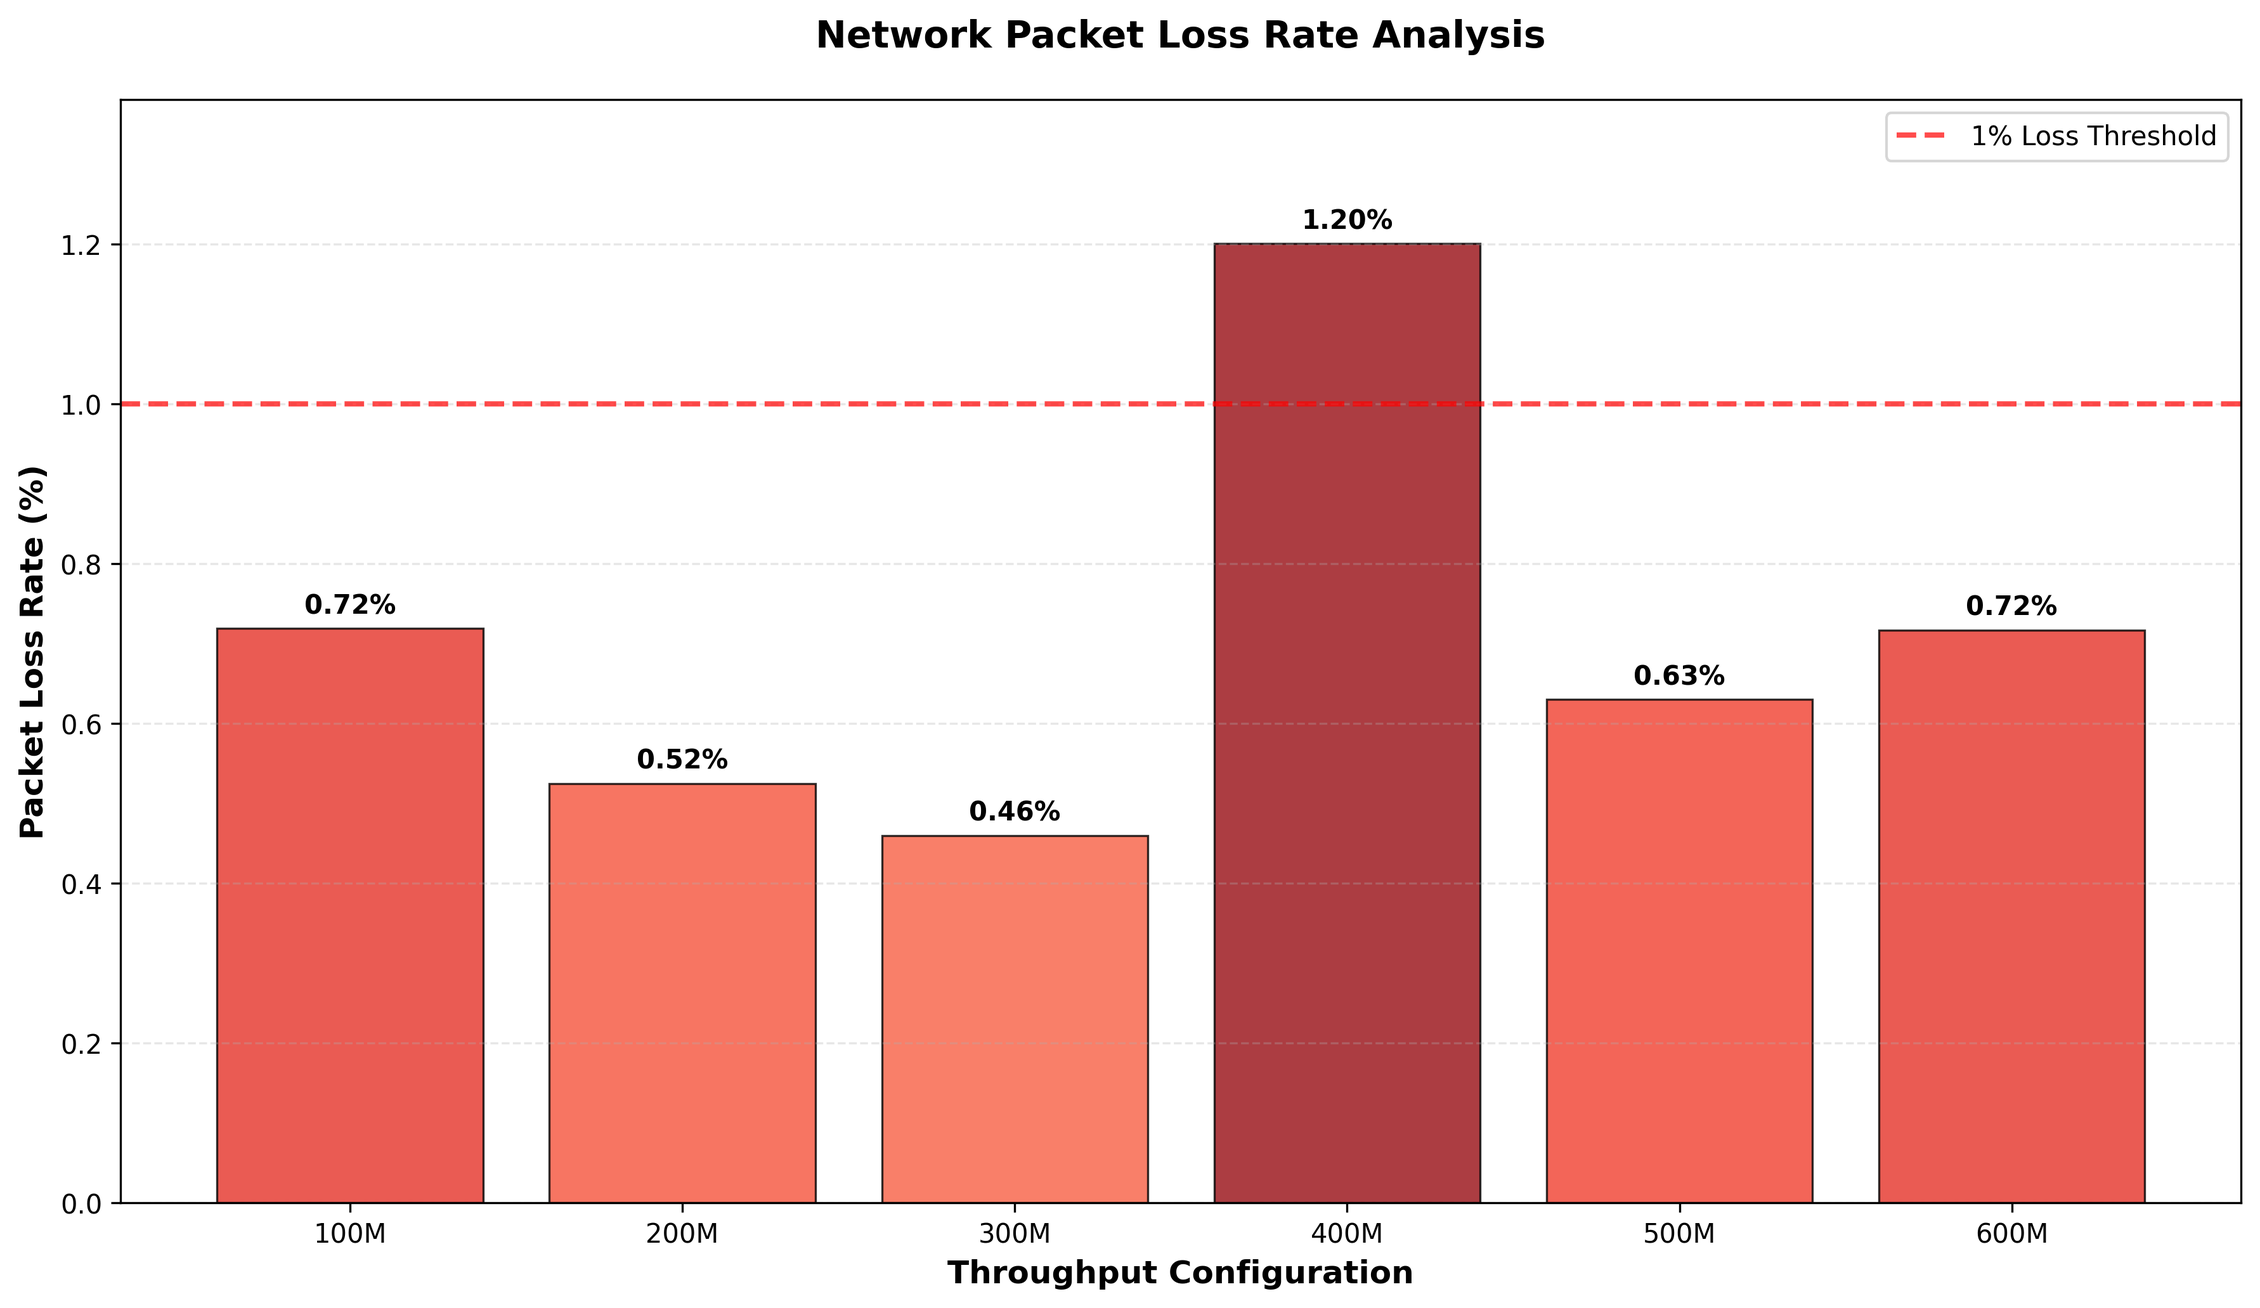
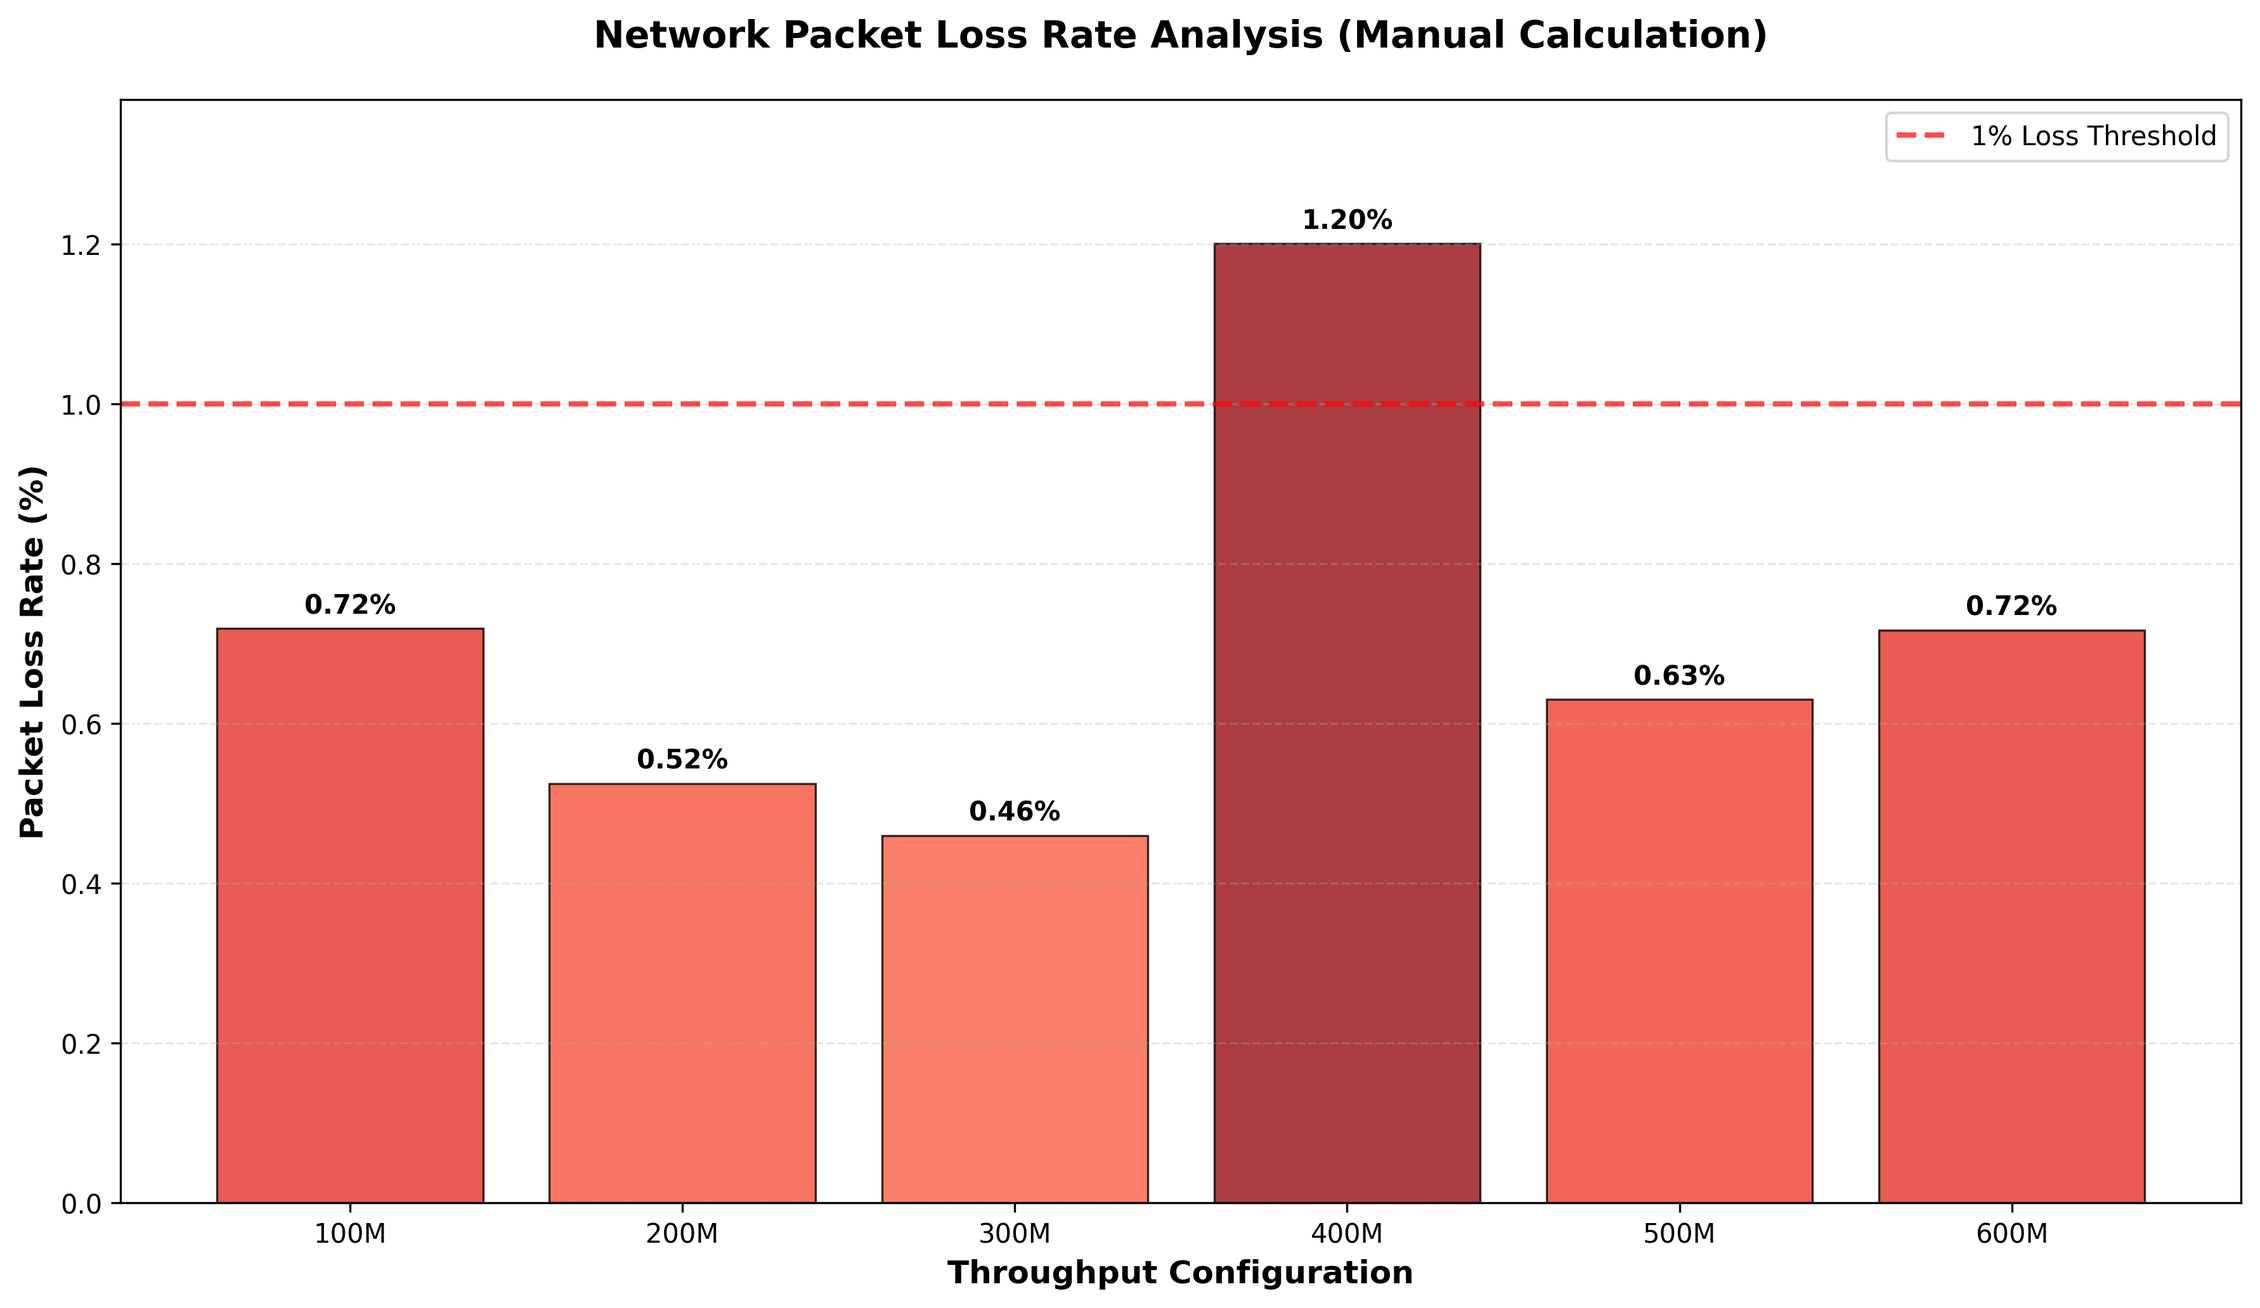
Add packet count analysis script and update analysis runner to include all scripts

Changed region(s): [[0.2492, 0.0, 0.7786, 0.062]]

diff --git a/analyze_loss_rate.py b/analyze_loss_rate.py
@@ -14,51 +14,51 @@ def load_json_data(file_path):
         print(f"Error loading {file_path}: {e}")
         return None
 
-def calculate_iperf_loss_rate(cn_data, ue_data):
-    """Calculate packet loss rate from iperf3 data"""
-    if not cn_data or not ue_data:
-        return 0, 0, 0, 0
+def extract_iperf_loss_data(cn_data, ue_data):
+    """Extract loss rate data directly from iperf3 results"""
+    cn_loss_percent = 0
+    ue_loss_percent = 0
+    cn_packets_sent = 0
+    ue_packets_received = 0
     
     try:
-        # Get packet counts from CN (sender) and UE (receiver)
-        cn_packets_sent = 0
-        cn_bytes_sent = 0
-        ue_packets_received = 0
-        ue_bytes_received = 0
-        
-        # From CN (sender) data - get total packets and bytes sent
-        if 'end' in cn_data and 'sum' in cn_data['end']:
+        # From CN (sender) data
+        if cn_data and 'end' in cn_data and 'sum' in cn_data['end']:
+            cn_loss_percent = cn_data['end']['sum'].get('lost_percent', 0)
             cn_packets_sent = cn_data['end']['sum'].get('packets', 0)
-            cn_bytes_sent = cn_data['end']['sum'].get('bytes', 0)
         
-        # From UE (receiver) data - get packets and bytes actually received
-        # Use sum_received which is the most accurate for received data
-        if 'end' in ue_data and 'sum_received' in ue_data['end']:
-            ue_packets_received = ue_data['end']['sum_received'].get('packets', 0)
-            ue_bytes_received = ue_data['end']['sum_received'].get('bytes', 0)
+        # From UE (receiver) data - use sum_received for most accurate data
+        if ue_data and 'end' in ue_data:
+            if 'sum_received' in ue_data['end']:
+                ue_loss_percent = ue_data['end']['sum_received'].get('lost_percent', 0)
+                ue_packets_received = ue_data['end']['sum_received'].get('packets', 0)
+            elif 'sum' in ue_data['end']:
+                ue_loss_percent = ue_data['end']['sum'].get('lost_percent', 0)
+                ue_packets_received = ue_data['end']['sum'].get('packets', 0)
         
-        print(f"  CN sent: {cn_packets_sent} packets, {cn_bytes_sent} bytes")
-        print(f"  UE received: {ue_packets_received} packets, {ue_bytes_received} bytes")
-        
-        # Calculate loss rates
-        packet_loss_rate = 0
-        byte_loss_rate = 0
-        
-        if cn_packets_sent > 0:
+        # Calculate manual loss rate for comparison
+        manual_loss_rate = 0
+        if cn_packets_sent > 0 and ue_packets_received > 0:
             lost_packets = cn_packets_sent - ue_packets_received
-            packet_loss_rate = (lost_packets / cn_packets_sent) * 100
-            packet_loss_rate = max(0, packet_loss_rate)  # Ensure non-negative
+            manual_loss_rate = (lost_packets / cn_packets_sent) * 100
         
-        if cn_bytes_sent > 0:
-            lost_bytes = cn_bytes_sent - ue_bytes_received
-            byte_loss_rate = (lost_bytes / cn_bytes_sent) * 100
-            byte_loss_rate = max(0, byte_loss_rate)  # Ensure non-negative
-        
-        return packet_loss_rate, byte_loss_rate, cn_packets_sent, ue_packets_received
+        return {
+            'cn_loss_percent': cn_loss_percent,
+            'ue_loss_percent': ue_loss_percent,
+            'manual_loss_rate': manual_loss_rate,
+            'cn_packets_sent': cn_packets_sent,
+            'ue_packets_received': ue_packets_received
+        }
         
     except Exception as e:
-        print(f"Error calculating loss rate: {e}")
-        return 0, 0, 0, 0
+        print(f"Error extracting loss data: {e}")
+        return {
+            'cn_loss_percent': 0,
+            'ue_loss_percent': 0,
+            'manual_loss_rate': 0,
+            'cn_packets_sent': 0,
+            'ue_packets_received': 0
+        }
 
 def get_jitter_info(ue_data):
     """Extract jitter information from UE data"""
@@ -119,12 +119,12 @@ def analyze_loss_rates():
         print("No throughput configuration files found!")
         return
     
-    packet_loss_rates = []
-    byte_loss_rates = []
+    iperf_loss_rates = []
+    manual_loss_rates = []
     jitter_values = []
     labels = []
     
-    print("Processing loss rate calculations:")
+    print("Processing loss rate calculations (iperf vs manual):")
     
     for throughput_val in throughput_configs:
         labels.append(f"{throughput_val}M")
@@ -134,69 +134,81 @@ def analyze_loss_rates():
         
         print(f"\n{throughput_val}M configuration:")
         
-        # Load data and calculate loss rate
+        # Load data and extract loss information
         cn_data = load_json_data(cn_file) if cn_file else None
         ue_data = load_json_data(ue_file) if ue_file else None
         
-        packet_loss_rate, byte_loss_rate, sent_packets, received_packets = calculate_iperf_loss_rate(cn_data, ue_data)
+        loss_data = extract_iperf_loss_data(cn_data, ue_data)
         jitter = get_jitter_info(ue_data)
         
-        packet_loss_rates.append(packet_loss_rate)
-        byte_loss_rates.append(byte_loss_rate)
+        # Use the more accurate loss rate (manual calculation from actual packet counts)
+        final_loss_rate = loss_data['manual_loss_rate']
+        
+        iperf_loss_rates.append(loss_data['ue_loss_percent'])
+        manual_loss_rates.append(final_loss_rate)
         jitter_values.append(jitter if jitter else 0)
         
-        print(f"  Packet loss rate: {packet_loss_rate:.2f}%")
-        print(f"  Byte loss rate: {byte_loss_rate:.2f}%")
+        print(f"  CN packets sent: {loss_data['cn_packets_sent']}")
+        print(f"  UE packets received: {loss_data['ue_packets_received']}")
+        print(f"  CN reported loss: {loss_data['cn_loss_percent']:.2f}%")
+        print(f"  UE reported loss: {loss_data['ue_loss_percent']:.2f}%")
+        print(f"  Manual calculated loss: {final_loss_rate:.2f}%")
         if jitter:
             print(f"  Jitter: {jitter:.3f} ms")
     
-    # Create the plot - use packet loss rate as primary metric
+    # Create the plot using manual calculation (more accurate)
     plt.figure(figsize=(12, 7))
     
     # Create color gradient based on loss rate values
-    if max(packet_loss_rates) > 0:
-        normalized_rates = np.array(packet_loss_rates) / max(packet_loss_rates)
+    if max(manual_loss_rates) > 0:
+        normalized_rates = np.array(manual_loss_rates) / max(manual_loss_rates)
         colors = plt.cm.Reds(0.3 + normalized_rates * 0.6)
     else:
-        colors = ['#2E86AB'] * len(packet_loss_rates)
+        colors = ['#2E86AB'] * len(manual_loss_rates)
     
-    bars = plt.bar(range(len(labels)), packet_loss_rates, color=colors, 
+    bars = plt.bar(range(len(labels)), manual_loss_rates, color=colors, 
                    edgecolor='black', linewidth=0.8, alpha=0.8)
     
     # Customize the plot
     plt.xlabel('Throughput Configuration', fontsize=12, fontweight='bold')
     plt.ylabel('Packet Loss Rate (%)', fontsize=12, fontweight='bold')
-    plt.title('Network Packet Loss Rate Analysis', fontsize=14, fontweight='bold', pad=20)
+    plt.title('Network Packet Loss Rate Analysis (Manual Calculation)', 
+              fontsize=14, fontweight='bold', pad=20)
     
     plt.xticks(range(len(labels)), labels, rotation=0)
     plt.grid(True, alpha=0.3, linestyle='--', axis='y')
     
     # Add value labels on bars
-    for i, (bar, loss_rate) in enumerate(zip(bars, packet_loss_rates)):
+    for i, (bar, loss_rate) in enumerate(zip(bars, manual_loss_rates)):
         height = bar.get_height()
-        plt.text(bar.get_x() + bar.get_width()/2., height + max(packet_loss_rates) * 0.01,
+        plt.text(bar.get_x() + bar.get_width()/2., height + max(manual_loss_rates) * 0.01,
                 f'{loss_rate:.2f}%', ha='center', va='bottom', 
                 fontsize=10, fontweight='bold')
     
     # Add a horizontal line at acceptable loss rate threshold (e.g., 1%)
-    if max(packet_loss_rates) > 1:
+    if max(manual_loss_rates) > 1:
         plt.axhline(y=1.0, color='red', linestyle='--', alpha=0.7, linewidth=2, 
                     label='1% Loss Threshold')
         plt.legend(fontsize=10)
     
     # Set y-axis to start from 0 and add some margin
-    plt.ylim(0, max(packet_loss_rates) * 1.15 if packet_loss_rates and max(packet_loss_rates) > 0 else 5)
+    plt.ylim(0, max(manual_loss_rates) * 1.15 if manual_loss_rates and max(manual_loss_rates) > 0 else 5)
     
     plt.tight_layout()
     plt.savefig('/home/mini/E2E-network-measurement/loss_rate_analysis.png', 
                 dpi=300, bbox_inches='tight', facecolor='white')
     plt.show()
     
-    # Print summary
-    print("\nDetailed Loss Analysis Summary:")
+    # Print detailed comparison
+    print("\nDetailed Loss Rate Comparison:")
+    print("Config\t\tiperf Report\tManual Calc\tJitter (ms)")
+    print("-" * 60)
     for i, label in enumerate(labels):
-        jitter_str = f", Jitter: {jitter_values[i]:.3f}ms" if jitter_values[i] > 0 else ""
-        print(f"{label}: Packet Loss: {packet_loss_rates[i]:.2f}%, Byte Loss: {byte_loss_rates[i]:.2f}%{jitter_str}")
+        iperf_loss = iperf_loss_rates[i]
+        manual_loss = manual_loss_rates[i]
+        jitter = jitter_values[i]
+        jitter_str = f"{jitter:.3f}" if jitter > 0 else "N/A"
+        print(f"{label}\t\t{iperf_loss:.2f}%\t\t{manual_loss:.2f}%\t\t{jitter_str}")
     
     print(f"\nLoss rate analysis chart saved as 'loss_rate_analysis.png'")
 

diff --git a/analyze_packet_count.py b/analyze_packet_count.py
@@ -1,0 +1,168 @@
+import json
+import os
+import matplotlib.pyplot as plt
+import numpy as np
+from pathlib import Path
+import re
+
+def load_json_data(file_path):
+    """Load JSON data from file"""
+    try:
+        with open(file_path, 'r') as f:
+            return json.load(f)
+    except Exception as e:
+        print(f"Error loading {file_path}: {e}")
+        return None
+
+def extract_packet_counts(cn_data, ue_data):
+    """Extract packet counts from CN and UE data"""
+    cn_packets_sent = 0
+    ue_packets_received = 0
+    
+    # CN端發送的封包數 (sender=true)
+    if cn_data and 'end' in cn_data and 'sum' in cn_data['end']:
+        cn_packets_sent = cn_data['end']['sum'].get('packets', 0)
+    
+    # UE端實際接收的封包數 (從sum_received取得最準確的數據)
+    if ue_data and 'end' in ue_data and 'sum_received' in ue_data['end']:
+        ue_packets_received = ue_data['end']['sum_received'].get('packets', 0)
+    
+    return cn_packets_sent, ue_packets_received
+
+def get_throughput_configs(data_dir):
+    """Find all throughput configuration directories"""
+    configs = []
+    
+    # Look for files with throughput patterns
+    for file_path in data_dir.glob('iperf*-*M-*.json'):
+        # Extract throughput value from filename
+        match = re.search(r'-(\d+)M-', file_path.name)
+        if match:
+            throughput_val = int(match.group(1))
+            configs.append(throughput_val)
+    
+    return sorted(list(set(configs)))
+
+def find_iperf_files(data_dir, throughput_val):
+    """Find CN and UE iperf files for a specific throughput"""
+    cn_file = None
+    ue_file = None
+    
+    # Look for files matching the pattern
+    cn_pattern = f"iperf*-{throughput_val}M-CN.json"
+    ue_pattern = f"iperf*-{throughput_val}M-UE.json"
+    
+    for file_path in data_dir.glob(cn_pattern):
+        cn_file = file_path
+        break
+    
+    for file_path in data_dir.glob(ue_pattern):
+        ue_file = file_path
+        break
+    
+    return cn_file, ue_file
+
+def analyze_packet_counts():
+    """Main function to analyze and plot packet counts"""
+    data_dir = Path('/home/mini/E2E-network-measurement/data/20250525-TEST')
+    
+    # Get all throughput configurations
+    throughput_configs = get_throughput_configs(data_dir)
+    
+    if not throughput_configs:
+        print("No throughput configuration files found!")
+        return
+    
+    plt.figure(figsize=(14, 8))
+    
+    cn_packet_counts = []
+    ue_packet_counts = []
+    labels = []
+    
+    print("Processing packet count analysis:")
+    
+    for throughput_val in throughput_configs:
+        labels.append(f"{throughput_val}M")
+        
+        # Find corresponding files
+        cn_file, ue_file = find_iperf_files(data_dir, throughput_val)
+        
+        print(f"\n{throughput_val}M configuration:")
+        print(f"  CN file: {cn_file}")
+        print(f"  UE file: {ue_file}")
+        
+        # Load and process data
+        cn_data = load_json_data(cn_file) if cn_file else None
+        ue_data = load_json_data(ue_file) if ue_file else None
+        
+        # Extract packet counts
+        cn_packets, ue_packets = extract_packet_counts(cn_data, ue_data)
+        
+        cn_packet_counts.append(cn_packets)
+        ue_packet_counts.append(ue_packets)
+        
+        print(f"  CN sent packets: {cn_packets}")
+        print(f"  UE received packets: {ue_packets}")
+        
+        # Calculate difference
+        if cn_packets > 0 and ue_packets > 0:
+            lost_packets = cn_packets - ue_packets
+            loss_percent = (lost_packets / cn_packets) * 100
+            print(f"  Lost packets: {lost_packets} ({loss_percent:.2f}%)")
+    
+    # Create grouped bar chart
+    bar_width = 0.35
+    x_positions = np.arange(len(labels))
+    
+    bars1 = plt.bar(x_positions - bar_width/2, cn_packet_counts, bar_width, 
+                    label='CN Packets Sent', color='#3498db', alpha=0.8, 
+                    edgecolor='black', linewidth=0.5)
+    bars2 = plt.bar(x_positions + bar_width/2, ue_packet_counts, bar_width, 
+                    label='UE Packets Received', color='#e74c3c', alpha=0.8, 
+                    edgecolor='black', linewidth=0.5)
+    
+    # Customize the plot
+    plt.xlabel('Throughput Configuration', fontsize=12, fontweight='bold')
+    plt.ylabel('Packet Count', fontsize=12, fontweight='bold')
+    plt.title('Network Packet Analysis: Sent vs Received Packets', 
+              fontsize=14, fontweight='bold', pad=20)
+    
+    plt.xticks(x_positions, labels, rotation=0)
+    plt.legend(fontsize=11, loc='upper left')
+    plt.grid(True, alpha=0.3, linestyle='--', axis='y')
+    
+    # Add value labels on bars
+    for i, (cn_count, ue_count) in enumerate(zip(cn_packet_counts, ue_packet_counts)):
+        if cn_count > 0:
+            plt.text(bars1[i].get_x() + bars1[i].get_width()/2., cn_count + max(cn_packet_counts) * 0.01, 
+                    f'{cn_count:,}', ha='center', va='bottom', fontsize=9, fontweight='bold')
+        if ue_count > 0:
+            plt.text(bars2[i].get_x() + bars2[i].get_width()/2., ue_count + max(ue_packet_counts) * 0.01, 
+                    f'{ue_count:,}', ha='center', va='bottom', fontsize=9, fontweight='bold')
+    
+    # Set y-axis limit
+    max_val = max(max(cn_packet_counts) if cn_packet_counts else [0], 
+                  max(ue_packet_counts) if ue_packet_counts else [0])
+    if max_val > 0:
+        plt.ylim(0, max_val * 1.15)
+    
+    plt.tight_layout()
+    plt.savefig('/home/mini/E2E-network-measurement/packet_count_analysis.png', 
+                dpi=300, bbox_inches='tight', facecolor='white')
+    plt.show()
+    
+    print(f"\nPacket count analysis chart saved as 'packet_count_analysis.png'")
+    
+    # Print summary table
+    print("\nPacket Count Summary:")
+    print("Config\t\tSent\t\tReceived\tLost\t\tLoss%")
+    print("-" * 60)
+    for i, label in enumerate(labels):
+        sent = cn_packet_counts[i]
+        received = ue_packet_counts[i]
+        lost = sent - received
+        loss_pct = (lost / sent * 100) if sent > 0 else 0
+        print(f"{label}\t\t{sent:,}\t\t{received:,}\t\t{lost:,}\t\t{loss_pct:.2f}%")
+
+if __name__ == "__main__":
+    analyze_packet_counts()

diff --git a/run_analysis.py b/run_analysis.py
@@ -8,12 +8,14 @@ import sys
 from pathlib import Path
 
 def run_analysis():
-    """Run both analysis scripts"""
+    """Run all analysis scripts"""
     script_dir = Path(__file__).parent
     
     scripts = [
         script_dir / "analyze_throughput.py",
-        script_dir / "analyze_loss_rate.py"
+        script_dir / "analyze_packet_count.py",
+        script_dir / "analyze_loss_rate.py",
+        script_dir / "analyze_ping.py"
     ]
     
     for script in scripts:
